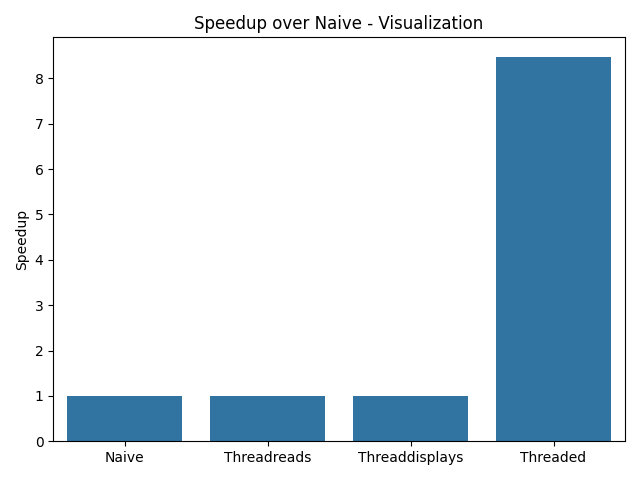
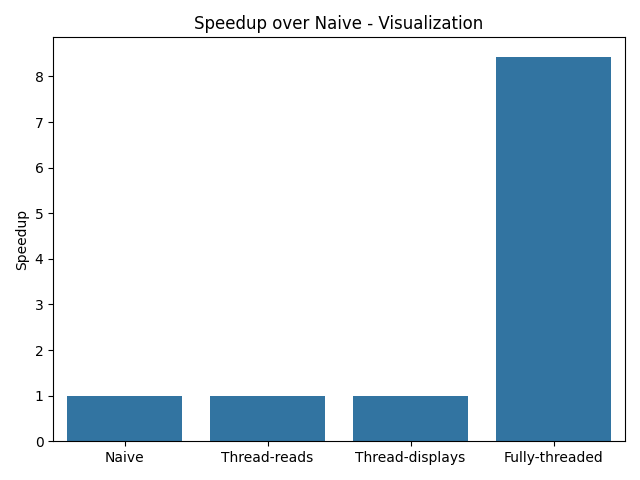
Update plots, plus readme

diff --git a/benchmarks/benchmark.py b/benchmarks/benchmark.py
@@ -79,7 +79,7 @@ def main():
         showretcodes[0] / r for r in showretcodes
     ]
     showplot = sns.barplot(
-        x=["Naive", "Threadreads", "Threaddisplays", "Threaded"],
+        x=["Naive", "Thread-reads", "Thread-displays", "Fully-threaded"],
         y=showretcodes,
     )
     showplot.set_title("Speedup over Naive - Visualization")

diff --git a/README.md b/README.md
@@ -23,3 +23,12 @@ https://cv2tools.readthedocs.io/en/latest/
 See Also:
 
 https://pypi.org/project/cv2ext/
+
+
+## Performance
+
+Compared to the naive solution implemented in Python,
+by using the tools in cv2ext you can achieve an 8x speedup
+on reading and displaying videos.
+
+![Performance](benchmarks/showplot.png)

diff --git a/docs/index.rst b/docs/index.rst
@@ -19,11 +19,6 @@ Contents
    API <api>
    Changelog <changelog>
 
-README
-======
-
-.. include:: ../README.md
-
 Indices and Tables
 ==================
 
